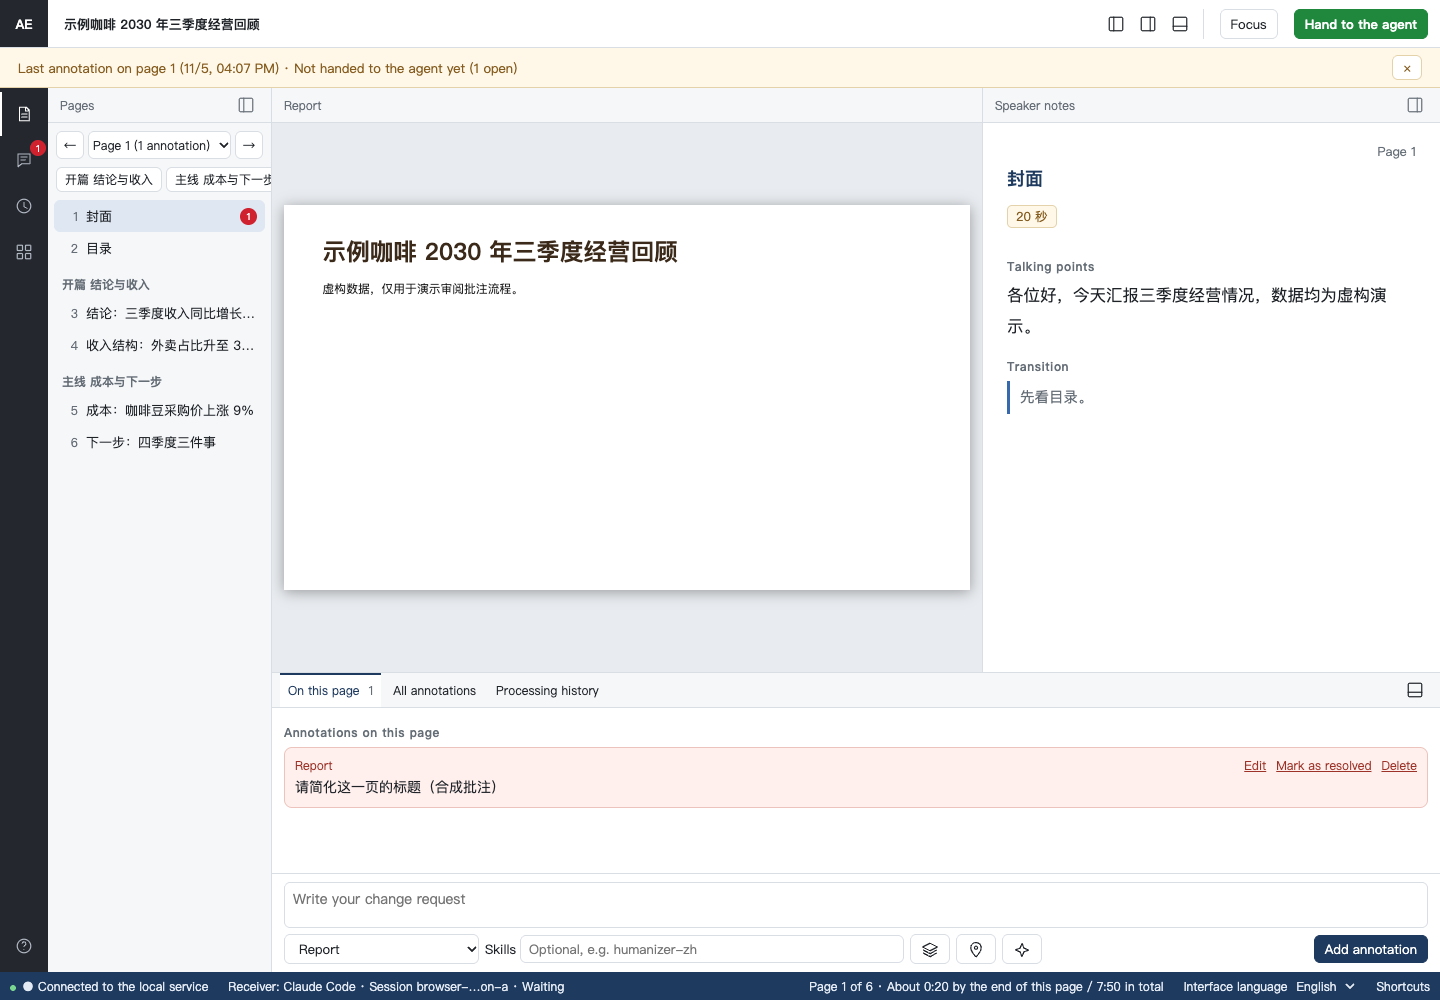
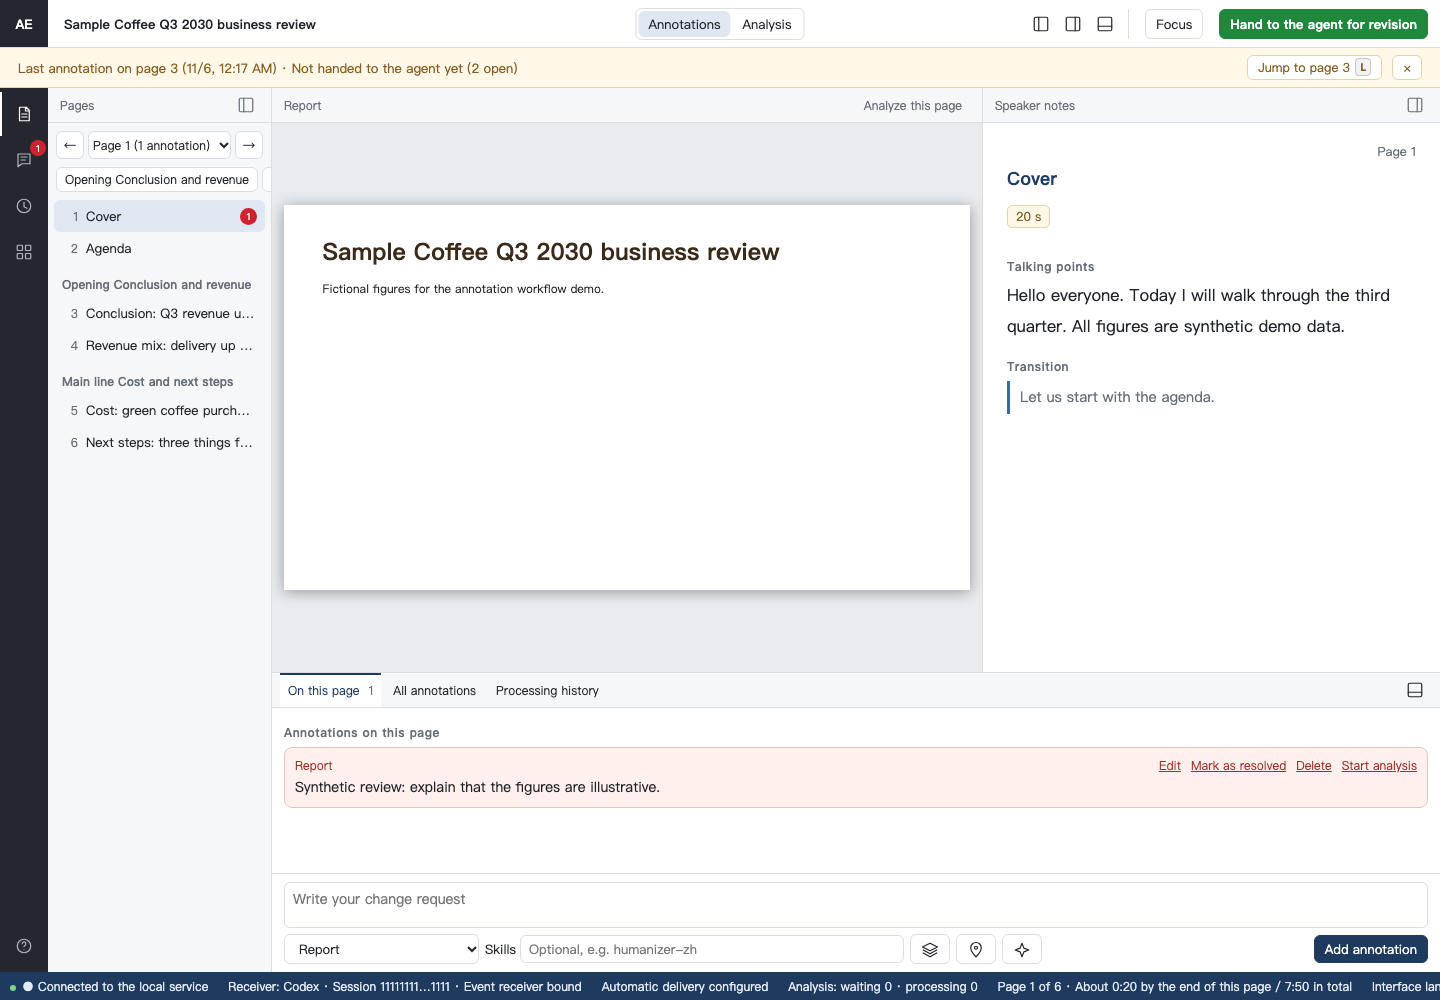
docs: 同步分析界面中英合成截图（#109）

diff --git a/docs/analysis/acceptance.md b/docs/analysis/acceptance.md
@@ -2,7 +2,7 @@
 
 规格为 [#109](https://github.com/hezhongtang/annotation-everything/issues/109)，由整合 [PR #121](https://github.com/hezhongtang/annotation-everything/pull/121) 交付。领域规则见 [ADR 0007](../adr/0007-analysis-inside-review.md) 和 [GLOSSARY.md](../../GLOSSARY.md)。
 
-当前为开发阶段：#111–#115 代码和相关快速检查已完成。完整单元、服务安全自检、完整浏览器及最新提交 CI 待验证；独立审查与最终输入证据以 PR 最新记录为准。未运行项保持待验证。
+本页记录 #111–#115 的开发阶段测试对应关系。独立审查、完整单元、服务安全自检、完整浏览器及最新提交 CI 的最终结论以 PR 记录为准；开发快速检查与截图各自注明范围。
 
 ## 原型九情形
 
@@ -47,5 +47,7 @@
 ## 当前证据与后续门禁
 
 功能整合 tip `a4f2d7e` 的最终相关组为 run `20261105T152850Z-260e18`：163/163、约 16 秒、锁等待 0、干净 HEAD 与稳定输入，无跳过或证据复用。范围包含前序 125 项、收尾 22 项和场景注册/选择/runner 16 项。历史通过、失败和最终输入的后续证据保留在 PR 评论与本机交接目录。
+
+整线审查后的修复 tip `d1c3f71` 为 run `20261105T161108Z-a0b68a`：169/169、约 16.2 秒、稳定干净输入。新增公开回归覆盖：已推翻假设不能增加新决策依赖且拒绝不部分写入；本轮五种已存回答可沿原轮次编辑；待复核旧线可重确认原选项；五类条目去重、历史与已确认批注更新只读；实际中英本地化按钮不残留占位符。原有三处浏览器提交文案断言也同步更新，浏览器场景实际执行结论仍由 PR 门禁给出。
 
 Lint、格式化和类型检查未配置；`git diff --check` 只用于空白检查。PR review 需执行项目规定的完整门禁并跟进最新提交 CI，满足合并门禁后由 PR 自动关闭父子 issues。分析不做导出/导入，完整记录须保留审阅目录。

diff --git a/README.en.md b/README.en.md
@@ -126,6 +126,8 @@ Refuting an assumption first records a checkpoint and forks when decisions on th
 
 An agent can propose that an option or an entire line is a dead end. Reviewer confirmation in the next round blocks that option, switching into that line and forking from its checkpoints across all lines. Refuting a dependency releases the block and marks it for review. The page explains the reason and assumptions. Reference cards preview the embedded report in an overlay, and each operation explains what changed.
 
+<p align="center"><img src="docs/assets/analysis.en.png" alt="Synthetic analysis: focus question, question tree, candidate assumption, round answers and checkpoint timeline" width="92%"><br><sub>Analysis and annotations share the console layout. All materials, annotations and answers shown here are synthetic.</sub></p>
+
 Waiters receive revision batches by default; opt in with `--events analysis` to receive analysis rounds. Agents read context with `notes.py analysis --round N --json` and use `analysis-writeback` with the accepted baseline revision. An unsupported service hides analysis and explains how to upgrade. Opening the HTML directly in file mode does not provide analysis.
 
 Neither JSON nor Markdown exports include analysis questions, events, or trees; JSON is not a complete review backup. Older importers and pages treat an unknown held status as open, while old services still submit only `open` annotations. After upgrading, restart the service, rebuild the page, and refresh it. See the [format reference](skill/annotation-everything/references/formats.en.md#analysis-data).
